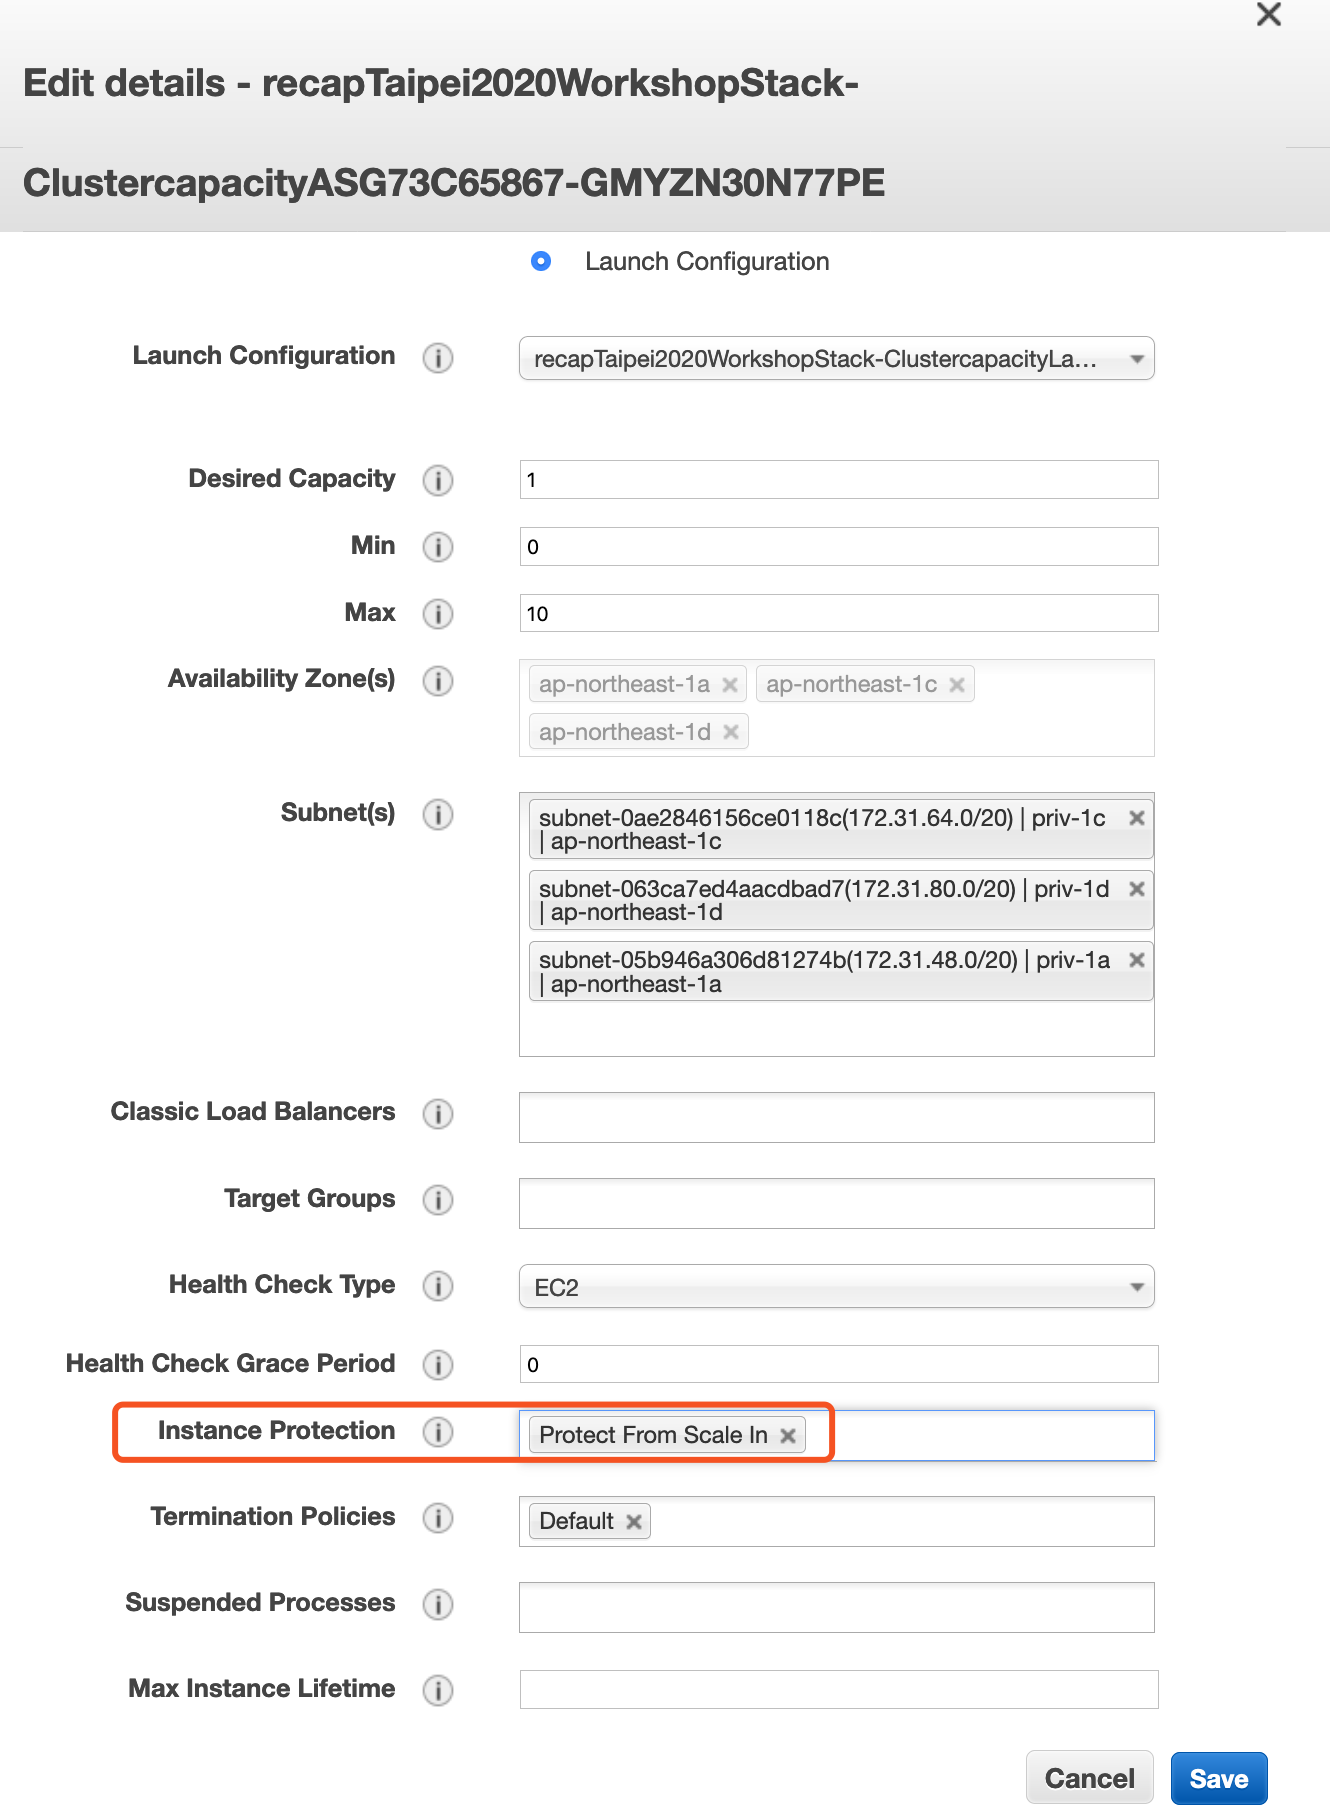
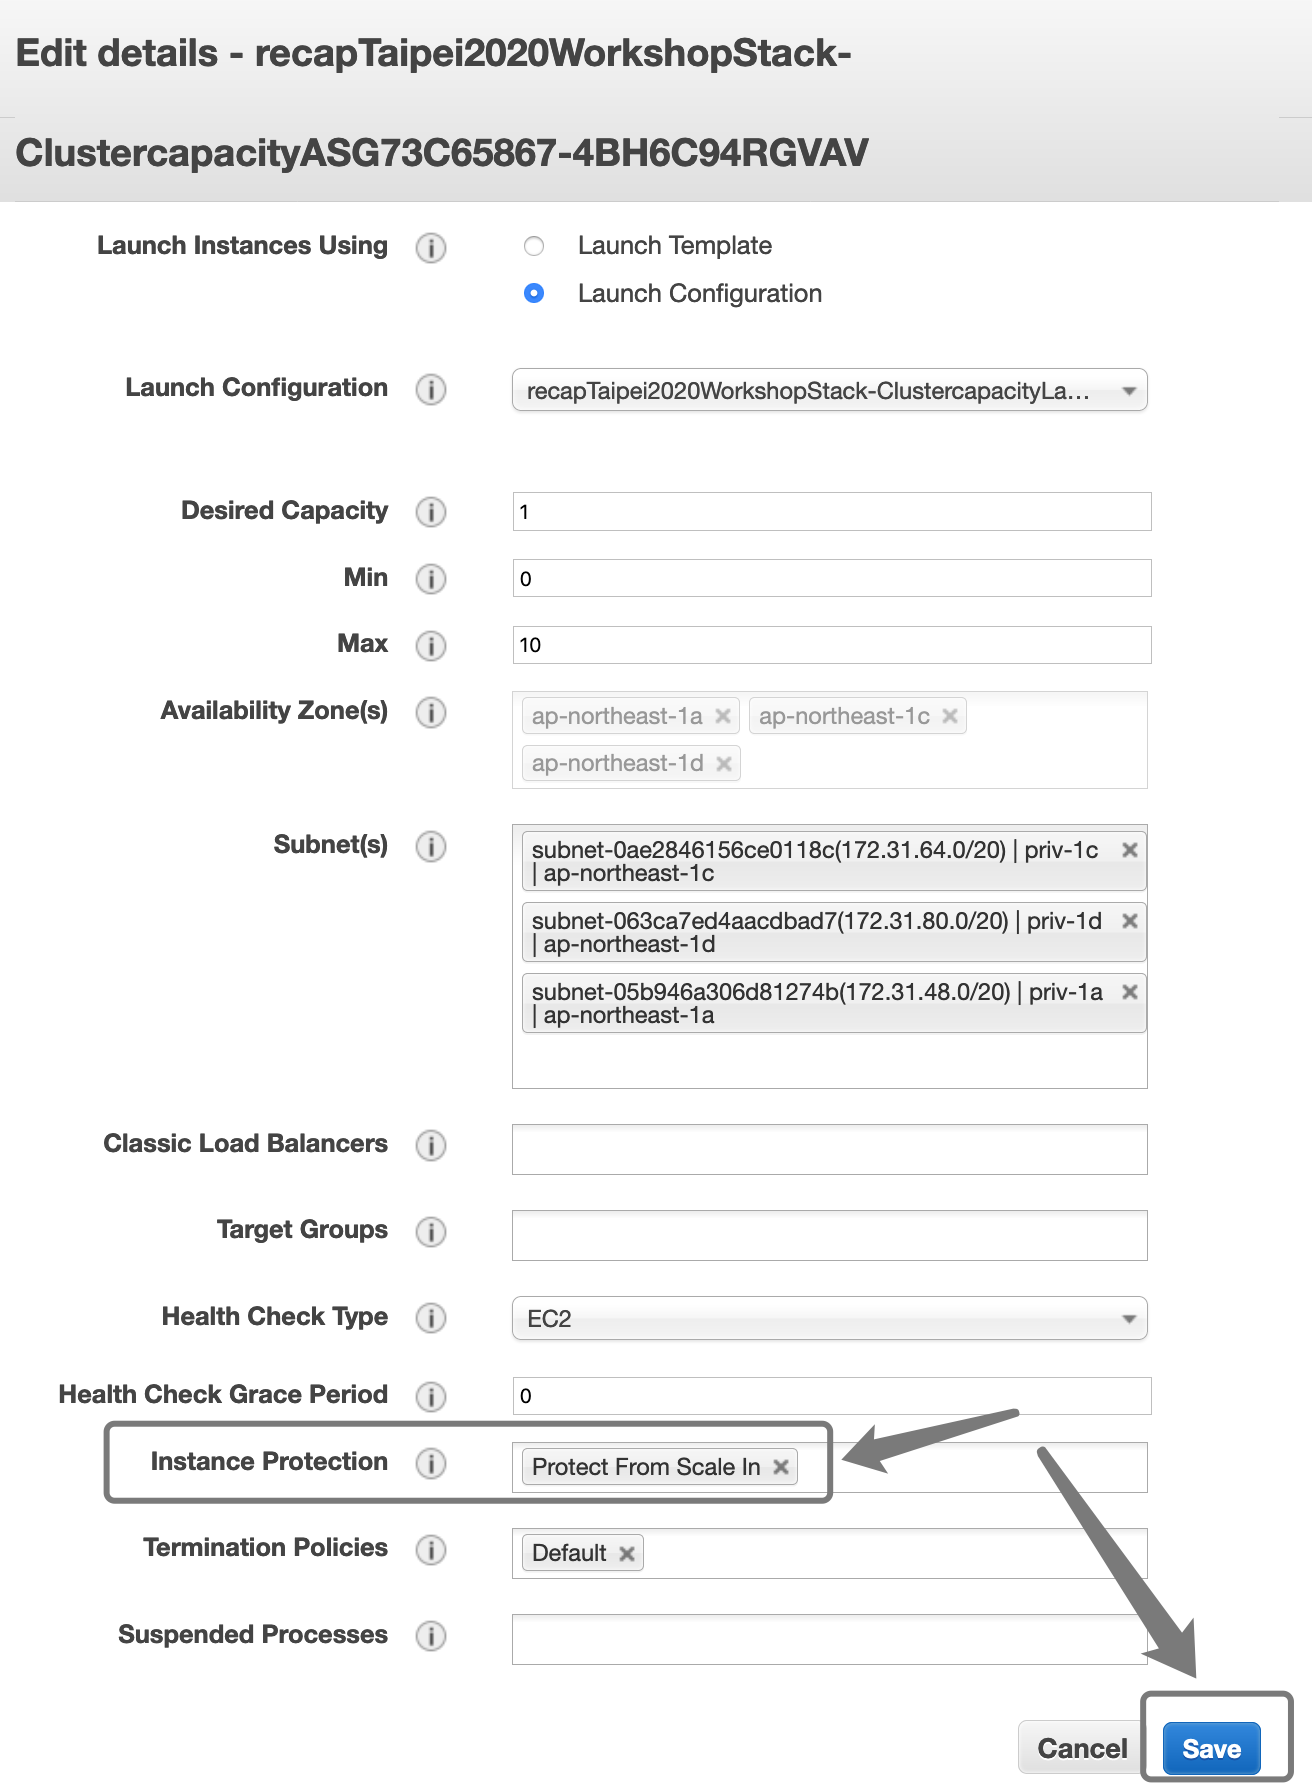
udpate lab1

diff --git a/lab1/README.md b/lab1/README.md
@@ -4,28 +4,41 @@ In this Lab, we are going to create an Amazon ECS cluster with EC2 and enable th
 
 
 
+## Clone the repo
+
+```bash
+$ git clone https://github.com/pahud/recap20-serverless-container-workshop.git
+```
+
+
+
 ## Deploy the stack
 
 ```bash
 # deploy into default VPC
+$ cd recap20-serverless-container-workshop/lab1
+# install required npm modules
+$ npm i
+# bootstrap your environment for CDK(you only need do it once)
+$ cdk bootstrap -c USE_DEFAULT_VPC=1 -c region=ap-northeast-1
+# deploy the stack 
 $ cdk deploy -c USE_DEFAULT_VPC=1 -c region=ap-northeast-1
-```
-
-Outputs:
-
-```
-Outputs:
-recapTaipei2020WorkshopStack.AsgName = recapTaipei2020WorkshopStack-ClustercapacityASG73C65867-5K4MASAS6736
-recapTaipei2020WorkshopStack.ServiceName = recapTaipei2020WorkshopStack-SvcServiceF685A632-13HGR69D0RLLS
-recapTaipei2020WorkshopStack.SvcServiceURL1A95443A = http://recap-SvcLB-1DK9EL30DOJ02-1318724289.ap-northeast-1.elb.amazonaws.com
-recapTaipei2020WorkshopStack.AsgArn = arn:aws:autoscaling:ap-northeast-1:903779448426:autoScalingGroup:*:autoScalingGroupName/recapTaipei2020WorkshopStack-ClustercapacityASG73C65867-5K4MASAS6736
-recapTaipei2020WorkshopStack.SvcLoadBalancerDNSEA316F6A = recap-SvcLB-1DK9EL30DOJ02-1318724289.ap-northeast-1.elb.amazonaws.com
-recapTaipei2020WorkshopStack.ClusterName = recapTaipei2020WorkshopStack-ClusterEB0386A7-E3VD3OLNQI5Y
+(this may take a few minutes)
 ```
 
 
 
-Go to the Amazon ECS console, click the **Clusters**, select the cluster name **recapTaipei2020WorkshopStack-xxxxxxxxx**
+Let's open a new editor tab as the scratchboard in Cloud9 and copy/paste all the CDK Outputs to the new file. We will use the values later.
+
+
+
+![](images/00-01.png)
+
+
+
+
+
+Go to the [Amazon ECS console](https://ap-northeast-1.console.aws.amazon.com/ecs/home?region=ap-northeast-1#/clusters) for cluster list, select the cluster name **recapTaipei2020WorkshopStack-xxxxxxxxx**
 
 
 
@@ -39,11 +52,11 @@ Set desired number of tasks to **5** and click next step all the way to update t
 
 
 
-Wait a few seconds and check the service again. There will be only 3 tasks running and the rest 2 can't be placed.
+Wait a few seconds and check the service again. There will be only 3 tasks running.
 
 ![](images/03.png)
 
-If you check the service Events tab, the message indicates insufficient memory.
+If you check the service **Events** tab, the message indicates insufficient memory.
 
 ![](images/04.png)
 
@@ -72,36 +85,21 @@ We are going to use the existing ASG for our default ASG capacity provider with 
 
 
 
-Go to [Auto Scaling Group console](https://ap-northeast-1.console.aws.amazon.com/ec2/autoscaling/home?region=ap-northeast-1#AutoScalingGroups:view=details;), select the ASG for the **Details**, click the **Edit** button and turn on the Instance Protection with **Protect From Scale In**.
+Go to [Auto Scaling Group console](https://ap-northeast-1.console.aws.amazon.com/ec2/autoscaling/home?region=ap-northeast-1#AutoScalingGroups:view=details;), select the ASG for the **Details**, click the **Edit** button and turn on the Instance Protection with **Protect From Scale In**. Make sure you click **Save**.
 
 
 
 ![](images/05.png)
 
-Please note, by enabling **Protect From Scale In** Instance Protection, all new instances created by this ASG from now on will have protection from scale in, which means all instances will not be terminated by simply scale in the ASG, instead, the Amazon ECS CSA will manage the toggle for you and turn off the toggle before it determines to terminate any empty instance for cluster scale in.
+Please note, by enabling **Protect From Scale In** Instance Protection, all new instances created by this ASG afterwards will be protected from scale in, which means all instances will not be terminated by simply ASG scale in, instead, the Amazon ECS CSA will manage the toggle on and off for you and turn off the toggle before it determines to terminate any empty instance to scale in the cluster.
 
 However, as we already have a running instance managed by ASG, we need manually enable the instance scale in protection for once.  Click the **Instances** tab. Select the existing one instance. Click **Actions** drop down menu, select **Instance Protection** -> **Set Scale In Protection**.
 
 ![](images/06.png)
 
-OK now let's create the resources with AWS CLI.
-
-```bash
 
 
-# describe the ecs service. Will return null as we yet to define any capacity provider strategy for the cluster
-$ aws --region ap-northeast-1 ecs describe-services --cluster ${CLUSTER_NAME} \
---service ${SERVICE_NAME} \
---query 'services[0].capacityProviderStrategy'
-
-
-# protect the new instance from scale in, which is required for managed termination protection
-#$ aws --region ap-northeast-1 autoscaling update-auto-scaling-group --auto-scaling-group-name ${ASG_NAME} --new-instances-protected-from-scale-in
-```
-
-
-
-Now let's create the capacity provider from the AWS console. Go to the **Capacity Providers** tab and click **Create**.
+Now let's create the capacity provider from the console. Go back to the ECS cluster **Capacity Providers** tab and click **Create**.
 
 
 
@@ -109,7 +107,7 @@ Now let's create the capacity provider from the AWS console. Go to the **Capacit
 
 
 
-Enter the **Capacity provider name**. Please note as the Capacity Provider at this moment is immutable(aws/containers-roadmap [#632](https://github.com/aws/containers-roadmap/issues/632)), you will not be able to delete it after creation. Make sure you input a unique name. In the following sample, I use the ASG name from the CDK output as the Capacity provider name.
+Enter the **Capacity provider name**. Please note as the Capacity Provider at this moment is immutable(aws/containers-roadmap [#632](https://github.com/aws/containers-roadmap/issues/632)), you will not be able to delete it after creation. Make sure you input a unique name. In the following sample, I use the ASG name from the CDK output as the Capacity provider name. You may copy the ASG name from the Cloud9 scratchboard tab.
 
 Enter **100** in the **Target capacity**. 
 
@@ -143,9 +141,11 @@ $ aws --region ap-northeast-1 ecs update-service --cluster ${CLUSTER_NAME} \
 --force-new-deployment
 ```
 
+![](images/16.png)
 
 
-Go back to **Tasks** tab and reload the list in the ecs cluster page. As we just **update-service** with **--force-new-deployment**, Amazon ECS control plane will create 5 new tasks with exactly the same task definition and because the service has supported capacity provider now, the 5 new tasks will not immediately go to the STOPPED state due to insufficient resource, instead, they go to **PROVISIONING** state and waiting for the capacity provider to provision extra instances.
+
+Go back to **Tasks** tab and reload the list in the ecs cluster page. As we just **update-service** with **--force-new-deployment**, Amazon ECS control plane will create 5 new tasks with exactly the same task definition and because the service has supported capacity provider now, the 5 new tasks will not immediately go to the STOPPED state due to insufficient resource, instead, they will just go to **PROVISIONING** state and waiting for the capacity provider to provision extra instances.
 
 
 
@@ -167,7 +167,7 @@ Leave this window open and turn on the **Auto refresh** with an interval of **10
 
 
 
-Go back to the **Tasks** tab, 5 tasks are all in **RUNNING** state.
+Go back to the **Tasks** tab, 5 tasks will be all in **RUNNING** state in a few minutes. Keep reloading the list if some of them are still in PROVISIONING until all RUNNING.
 
 
 
@@ -212,7 +212,7 @@ And let's destroy the whole stack with `cdk destroy`
 $ cdk destroy -c USE_DEFAULT_VPC=1 -c region=ap-northeast-1 
 ```
 
-All resources will be terminated except for the Capacity Provider because it's immutable. Don't worry, the Capacity Provider is free and will not incure any future cost.
+All resources will be terminated except for the Capacity Provider because at this moment it's immutable. Don't worry, the Capacity Provider is free and will not incure any future cost in your monthly billing.
 
 OK. Let's move to the Lab2. We will walk through the Amazon ECS with Capacity Provider for **FARGATE** and **FARGATE_SPOT**.
 
